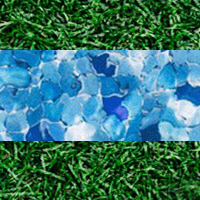
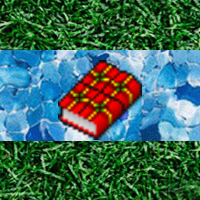
new

Changed region(s): [[0.27, 0.3, 0.72, 0.72]]

diff --git a/Labyrinth/src/main/java/com/mycompany/labyrinth/SpielViewController.java b/Labyrinth/src/main/java/com/mycompany/labyrinth/SpielViewController.java
@@ -160,12 +160,12 @@ public class SpielViewController implements Initializable {
     public void initialize(URL url, ResourceBundle rb) {
         // TODO
         
-      App.getKarten().add(TSpielKarte);
-      App.getKarten().add(T1SpielKarte);
-      App.getKarten().add(T2SpielKarte);
-        
+      
         
         App.getSpielfiguren().add(new SpielfigurGrün("Grün", 2, 3, false));
+        
+        
+        
         
         KartenModel km = new KartenModel(true, true, true, true, TSpielKarte);      KartenModel km4 = new KartenModel(true, true, true, true, T4SpielKarte);
         KartenModel km1 = new KartenModel(true, true, true, true, T1SpielKarte);    KartenModel km5 = new KartenModel(true, true, true, true, T5SpielKarte);
@@ -183,6 +183,12 @@ public class SpielViewController implements Initializable {
         KartenModel km19 = new KartenModel(true, true, true, true, I2SpielKarte);  KartenModel km22 = new KartenModel(true, true, true, true, I3SpielKarte);
         KartenModel km20 = new KartenModel(true, true, true, true, I4SpielKarte);  KartenModel km23 = new KartenModel(true, true, true, true, I5SpielKarte);
        
+        App.getKartenKlasse().add(km); App.getKartenKlasse().add(km1); App.getKartenKlasse().add(km2); App.getKartenKlasse().add(km3); 
+        App.getKartenKlasse().add(km4); App.getKartenKlasse().add(km5); App.getKartenKlasse().add(km6); App.getKartenKlasse().add(km7);
+        App.getKartenKlasse().add(km8); App.getKartenKlasse().add(km9); App.getKartenKlasse().add(km10); App.getKartenKlasse().add(km11);
+        App.getKartenKlasse().add(km12); App.getKartenKlasse().add(km13); App.getKartenKlasse().add(km14); App.getKartenKlasse().add(km15); 
+        App.getKartenKlasse().add(km16); App.getKartenKlasse().add(km17); App.getKartenKlasse().add(km18); App.getKartenKlasse().add(km19);
+        App.getKartenKlasse().add(km20); App.getKartenKlasse().add(km21); App.getKartenKlasse().add(km22); App.getKartenKlasse().add(km23);
         
         
       /**  TSpielKarte.setLayoutX(586);  TSpielKarte.setLayoutY(233);
@@ -219,7 +225,7 @@ public class SpielViewController implements Initializable {
     }    
 
    
-    private void Createboard(){
+    private void Boarderstellen(){
         int x;
         int y;
         
@@ -228,29 +234,52 @@ public class SpielViewController implements Initializable {
            
               if(y==0){
                switch(x)
-               {case 0: 
-                case 1:
-                case 2:
-                case 3:
-                case 4:}
-              }
+               {case 0: App.getRandomCard();board[x][y] = App.getRandomkarte(); board [x][y].getKarten().setLayoutX(586); board [x][y].getKarten().setLayoutY(233);
+                case 1: App.getRandomCard();board[x][y] = App.getRandomkarte(); board [x][y].getKarten().setLayoutX(586); board [x][y].getKarten().setLayoutY(233);
+                case 2: App.getRandomCard();board[x][y] = App.getRandomkarte(); board [x][y].getKarten().setLayoutX(586); board [x][y].getKarten().setLayoutY(233);
+                case 3: App.getRandomCard();board[x][y] = App.getRandomkarte(); board [x][y].getKarten().setLayoutX(586); board [x][y].getKarten().setLayoutY(233);
+                case 4: App.getRandomCard();board[x][y] = App.getRandomkarte(); board [x][y].getKarten().setLayoutX(586); board [x][y].getKarten().setLayoutY(233); }
+                }
                    else if(y==1){
                    switch(x)
                    {case 0: App.getRandomCard();board[x][y] = App.getRandomkarte(); board [x][y].getKarten().setLayoutX(586); board [x][y].getKarten().setLayoutY(233);
-                    case 1:
-                    case 2:
-                    case 3:
-                    case 4:}  
-                    }
+                    case 1: App.getRandomCard();board[x][y] = App.getRandomkarte(); board [x][y].getKarten().setLayoutX(586); board [x][y].getKarten().setLayoutY(233);
+                    case 2: App.getRandomCard();board[x][y] = App.getRandomkarte(); board [x][y].getKarten().setLayoutX(586); board [x][y].getKarten().setLayoutY(233);
+                    case 3: App.getRandomCard();board[x][y] = App.getRandomkarte(); board [x][y].getKarten().setLayoutX(586); board [x][y].getKarten().setLayoutY(233);
+                    case 4: App.getRandomCard();board[x][y] = App.getRandomkarte(); board [x][y].getKarten().setLayoutX(586); board [x][y].getKarten().setLayoutY(233);}
+                   }
+                    
+                        else if(y==2){
+                        switch(x)
+                        {case 0: App.getRandomCard();board[x][y] = App.getRandomkarte(); board [x][y].getKarten().setLayoutX(586); board [x][y].getKarten().setLayoutY(233);
+                        case 1: App.getRandomCard();board[x][y] = App.getRandomkarte(); board [x][y].getKarten().setLayoutX(586); board [x][y].getKarten().setLayoutY(233);
+                        case 2: App.getRandomCard();board[x][y] = App.getRandomkarte(); board [x][y].getKarten().setLayoutX(586); board [x][y].getKarten().setLayoutY(233);
+                        case 3: App.getRandomCard();board[x][y] = App.getRandomkarte(); board [x][y].getKarten().setLayoutX(586); board [x][y].getKarten().setLayoutY(233);
+                        case 4: App.getRandomCard();board[x][y] = App.getRandomkarte(); board [x][y].getKarten().setLayoutX(586); board [x][y].getKarten().setLayoutY(233);}
+                         }
               
+                            else if(y==3){
+                            switch(x)
+                            {case 0: App.getRandomCard();board[x][y] = App.getRandomkarte(); board [x][y].getKarten().setLayoutX(586); board [x][y].getKarten().setLayoutY(233);
+                            case 1: App.getRandomCard();board[x][y] = App.getRandomkarte(); board [x][y].getKarten().setLayoutX(586); board [x][y].getKarten().setLayoutY(233);
+                            case 2: App.getRandomCard();board[x][y] = App.getRandomkarte(); board [x][y].getKarten().setLayoutX(586); board [x][y].getKarten().setLayoutY(233);
+                            case 3: App.getRandomCard();board[x][y] = App.getRandomkarte(); board [x][y].getKarten().setLayoutX(586); board [x][y].getKarten().setLayoutY(233);
+                            case 4: App.getRandomCard();board[x][y] = App.getRandomkarte(); board [x][y].getKarten().setLayoutX(586); board [x][y].getKarten().setLayoutY(233);}
+                            } 
+              
+                                  else if(y==4){
+                                  switch(x)
+                                 {case 0: App.getRandomCard();board[x][y] = App.getRandomkarte(); board [x][y].getKarten().setLayoutX(586); board [x][y].getKarten().setLayoutY(233);
+                                  case 1: App.getRandomCard();board[x][y] = App.getRandomkarte(); board [x][y].getKarten().setLayoutX(586); board [x][y].getKarten().setLayoutY(233);
+                                  case 2: App.getRandomCard();board[x][y] = App.getRandomkarte(); board [x][y].getKarten().setLayoutX(586); board [x][y].getKarten().setLayoutY(233);
+                                  case 3: App.getRandomCard();board[x][y] = App.getRandomkarte(); board [x][y].getKarten().setLayoutX(586); board [x][y].getKarten().setLayoutY(233);
+                                  case 4: App.getRandomCard();board[x][y] = App.getRandomkarte(); board [x][y].getKarten().setLayoutX(586); board [x][y].getKarten().setLayoutY(233);}
+                            } 
             }
         
-<<<<<<< Updated upstream
+
         } 
-    }
-     
-                
-            @FXML
+    }@FXML
     private void FigurGelbClicked(MouseEvent event) {
        
               
@@ -264,13 +293,7 @@ public class SpielViewController implements Initializable {
 
     @FXML
     private void AnchoKeyPressed(KeyEvent event) {
-=======
-        
-        
-        
-        WarningBackText.setVisible(false);
->>>>>>> Stashed changes
-        
+
             if(App.getSfgelb().isClicked() == true){    
                    switch (event.getCode()){
          case W:
